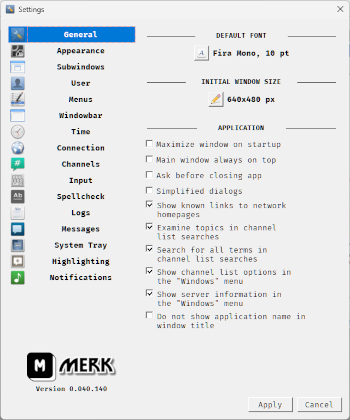
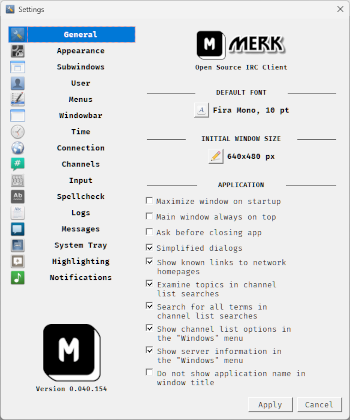
Latest build

Changed region(s): [[0.4, 0.0619, 0.8286, 0.9286], [0.0571, 0.7738, 0.3429, 0.9286]]

diff --git a/README.html b/README.html
@@ -1,4 +1,4 @@
-<h1>MERK 0.040.153</h1>
+<h1>MERK 0.040.154</h1>
 
 <p><a href="https://github.com/nutjob-laboratories/merk">Official source code repository</a></p>
 <h1 id="table-of-contents">Table of contents</h1>
@@ -14,7 +14,7 @@
 <li><a href="#does-merk-need-any-help">Does MERK need any help?</a></li>
 </ul>
 <h1 id="summary">Summary</h1>
-<p><strong>MERK</strong> is a graphical <a href="https://www.gnu.org/licenses/gpl-3.0.en.html">open source</a> <a href="https://en.wikipedia.org/wiki/Internet_Relay_Chat">Internet relay chat</a> client. The current development version is <strong>0.040.153</strong>. It uses a <a href="https://en.wikipedia.org/wiki/Multiple-document_interface">multiple-document interface</a>, much like the popular Windows IRC client <a href="https://www.mirc.com/">mIRC</a>.  <strong>MERK</strong> is written in Python 3, using the <a href="https://pypi.org/project/PyQt5/">PyQt5</a> and <a href="https://twistedmatrix.com/trac/">Twisted</a> libraries, and runs on both Windows and Linux. <strong>MERK</strong> is updated frequently with new features and bugfixes.</p>
+<p><strong>MERK</strong> is a graphical <a href="https://www.gnu.org/licenses/gpl-3.0.en.html">open source</a> <a href="https://en.wikipedia.org/wiki/Internet_Relay_Chat">Internet relay chat</a> client. The current development version is <strong>0.040.154</strong>. It uses a <a href="https://en.wikipedia.org/wiki/Multiple-document_interface">multiple-document interface</a>, much like the popular Windows IRC client <a href="https://www.mirc.com/">mIRC</a>.  <strong>MERK</strong> is written in Python 3, using the <a href="https://pypi.org/project/PyQt5/">PyQt5</a> and <a href="https://twistedmatrix.com/trac/">Twisted</a> libraries, and runs on both Windows and Linux. <strong>MERK</strong> is updated frequently with new features and bugfixes.</p>
 <p><strong>MERK</strong> is still in development, but it works, and can be used for most IRC activities.</p>
 <p>Join me on the official <strong>MERK</strong> IRC channel, <strong>#merk</strong> on the Libera Chat network! Connect to  Libera in the client as one of the built-in server suggestions, or at <strong>irc.libera.chat</strong>, port <strong>6667</strong> (you can also connect via SSL on port <strong>6697</strong>). Honestly, I work a lot, so I&#39;m almost always idle, but I pop in and chat a few times a day!</p>
 <h1 id="making-merk-portable-on-windows">Making MERK Portable on Windows</h1>

diff --git a/merk/dialog/settings.py b/merk/dialog/settings.py
@@ -842,7 +842,15 @@ class Dialog(QDialog):
 
 		self.noAppNameTitle.setStyleSheet("QCheckBox { text-align: left top; } QCheckBox::indicator { subcontrol-origin: padding; subcontrol-position: left top; }")
 
+		logo = QLabel()
+		pixmap = QPixmap(VERTICAL_SPLASH_LOGO)
+		logo.setPixmap(pixmap)
+		logo.setAlignment(Qt.AlignCenter)
+
 		applicationLayout = QVBoxLayout()
+		applicationLayout.addWidget(logo)
+		applicationLayout.addWidget(QLabel('<center><small><b>Open Source IRC Client</b></smal></center>'))
+		applicationLayout.addWidget(QLabel(' '))
 		applicationLayout.addWidget(widgets.textSeparatorLabel(self,"<b>default font</b>"))
 		applicationLayout.addLayout(fontLayout)
 		applicationLayout.addWidget(QLabel(' '))
@@ -2520,7 +2528,7 @@ class Dialog(QDialog):
 		# Finalize layout
 
 		logo = QLabel()
-		pixmap = QPixmap(VERTICAL_SPLASH_LOGO)
+		pixmap = QPixmap(APPLICATION_ICON)
 		logo.setPixmap(pixmap)
 		logo.setAlignment(Qt.AlignCenter)
 

diff --git a/merk/resources/version.py b/merk/resources/version.py
@@ -1,1 +1,1 @@
-APPLICATION_VERSION = "0.040.153"
+APPLICATION_VERSION = "0.040.154"

diff --git a/README.md b/README.md
@@ -28,14 +28,14 @@ All files are packed in [ZIP archive files](https://en.wikipedia.org/wiki/ZIP_(f
 
 | Type| Platform  | Download  |
 | :----:    | :----:    | :----:    |
-| Zip Archive|  Cross-platform  | [Download MERK 0.040.153 (3.53 MB)](https://www.dropbox.com/scl/fi/t8nhn5mnoagclu43fs1pn/merk-latest.zip?rlkey=ghcc5c3955ihn4fijw717di03&dl=1)  |
-| Zip Archive|  Windows | [Download MERK 0.040.153 (49.55 MB)](https://www.dropbox.com/scl/fi/fnu5uasoo2dzmzwiferhw/merk-windows-latest.zip?rlkey=9fke2qid0gna4n4zt00v0uhhy&dl=1)|
-|   Windows Installer|  Windows | [Download MERK 0.040.153 (36.67 MB)](https://www.dropbox.com/scl/fi/okp7zrjy25p1v3rox00p1/merk_setup.zip?rlkey=ey9f78jqzzp9ldjbqgwikk8uc&dl=1)|
-|   Single Executable|  Windows | [Download MERK 0.040.153 (49.14 MB)](https://www.dropbox.com/scl/fi/0r8uq83lrrurh1zoy7g0z/merk-windows-standalone.zip?rlkey=qgowd8ri1qdftuksb152x293l&dl=1)|
+| Zip Archive|  Cross-platform  | [Download MERK 0.040.154 (3.53 MB)](https://www.dropbox.com/scl/fi/t8nhn5mnoagclu43fs1pn/merk-latest.zip?rlkey=ghcc5c3955ihn4fijw717di03&dl=1)  |
+| Zip Archive|  Windows | [Download MERK 0.040.154 (49.55 MB)](https://www.dropbox.com/scl/fi/fnu5uasoo2dzmzwiferhw/merk-windows-latest.zip?rlkey=9fke2qid0gna4n4zt00v0uhhy&dl=1)|
+|   Windows Installer|  Windows | [Download MERK 0.040.154 (36.67 MB)](https://www.dropbox.com/scl/fi/okp7zrjy25p1v3rox00p1/merk_setup.zip?rlkey=ey9f78jqzzp9ldjbqgwikk8uc&dl=1)|
+|   Single Executable|  Windows | [Download MERK 0.040.154 (49.14 MB)](https://www.dropbox.com/scl/fi/0r8uq83lrrurh1zoy7g0z/merk-windows-standalone.zip?rlkey=qgowd8ri1qdftuksb152x293l&dl=1)|
 
 # Summary
   
-**MERK** is a graphical [open source](https://www.gnu.org/licenses/gpl-3.0.en.html) [Internet relay chat](https://en.wikipedia.org/wiki/Internet_Relay_Chat) client. The current development version is **0.040.153**. It uses a [multiple-document interface](https://en.wikipedia.org/wiki/Multiple-document_interface), much like the popular Windows IRC client [mIRC](https://www.mirc.com/).  **MERK** is written in Python 3, using the [PyQt5](https://pypi.org/project/PyQt5/) and [Twisted](https://twistedmatrix.com/trac/) libraries, and runs on both Windows and Linux. **MERK** is updated frequently with new features and bugfixes.
+**MERK** is a graphical [open source](https://www.gnu.org/licenses/gpl-3.0.en.html) [Internet relay chat](https://en.wikipedia.org/wiki/Internet_Relay_Chat) client. The current development version is **0.040.154**. It uses a [multiple-document interface](https://en.wikipedia.org/wiki/Multiple-document_interface), much like the popular Windows IRC client [mIRC](https://www.mirc.com/).  **MERK** is written in Python 3, using the [PyQt5](https://pypi.org/project/PyQt5/) and [Twisted](https://twistedmatrix.com/trac/) libraries, and runs on both Windows and Linux. **MERK** is updated frequently with new features and bugfixes.
 
 **MERK** is still in development, but it works, and can be used for most IRC activities.
 
@@ -45,18 +45,18 @@ Join me on the official **MERK** IRC channel, **#merk** on the Libera Chat netwo
 
 # Running MERK on Windows
 
-If you're running Windows, you can run **MERK** without having to install Python or its requirements! First, [download the Windows installer of **MERK** 0.040.153](https://www.dropbox.com/scl/fi/okp7zrjy25p1v3rox00p1/merk_setup.zip?rlkey=ey9f78jqzzp9ldjbqgwikk8uc&dl=1). Extract the downloaded zip file and double click on `merk-setup.exe` to install **MERK** to wherever you'd like.
+If you're running Windows, you can run **MERK** without having to install Python or its requirements! First, [download the Windows installer of **MERK** 0.040.154](https://www.dropbox.com/scl/fi/okp7zrjy25p1v3rox00p1/merk_setup.zip?rlkey=ey9f78jqzzp9ldjbqgwikk8uc&dl=1). Extract the downloaded zip file and double click on `merk-setup.exe` to install **MERK** to wherever you'd like.
 
-For a "portable" version of **MERK**, [download the zip file of **MERK** 0.040.153 for Windows](https://www.dropbox.com/scl/fi/fnu5uasoo2dzmzwiferhw/merk-windows-latest.zip?rlkey=9fke2qid0gna4n4zt00v0uhhy&dl=1). Extract the zip archive where ever you want, and double click on `merk.exe` to run **MERK**!
+For a "portable" version of **MERK**, [download the zip file of **MERK** 0.040.154 for Windows](https://www.dropbox.com/scl/fi/fnu5uasoo2dzmzwiferhw/merk-windows-latest.zip?rlkey=9fke2qid0gna4n4zt00v0uhhy&dl=1). Extract the zip archive where ever you want, and double click on `merk.exe` to run **MERK**!
 
-For an even easier "install", [download the "standalone" executable of **MERK** 0.040.153](https://www.dropbox.com/scl/fi/0r8uq83lrrurh1zoy7g0z/merk-windows-standalone.zip?rlkey=qgowd8ri1qdftuksb152x293l&dl=1) to wherever you want, extract the zipped executable, and double click it to run **MERK**!
+For an even easier "install", [download the "standalone" executable of **MERK** 0.040.154](https://www.dropbox.com/scl/fi/0r8uq83lrrurh1zoy7g0z/merk-windows-standalone.zip?rlkey=qgowd8ri1qdftuksb152x293l&dl=1) to wherever you want, extract the zipped executable, and double click it to run **MERK**!
 
 The Windows version of **MERK** is being built with [PyInstaller](https://www.pyinstaller.org/).
 
 A note: all command-line arguments, as documented below, work on the standalone version of **MERK**.
 
 # Making MERK Portable on Windows
-If you want to run **MERK** from a USB stick, and save all configuration and user data to the USB stick (or wherever you're running **MERK** from), it's really easy. First, [download the zip file of **MERK** 0.040.153 for Windows](https://www.dropbox.com/scl/fi/fnu5uasoo2dzmzwiferhw/merk-windows-latest.zip?rlkey=9fke2qid0gna4n4zt00v0uhhy&dl=1), and extract it to your USB stick. Then, open [Notepad](https://en.wikipedia.org/wiki/Windows_Notepad), and enter this into a new document:
+If you want to run **MERK** from a USB stick, and save all configuration and user data to the USB stick (or wherever you're running **MERK** from), it's really easy. First, [download the zip file of **MERK** 0.040.154 for Windows](https://www.dropbox.com/scl/fi/fnu5uasoo2dzmzwiferhw/merk-windows-latest.zip?rlkey=9fke2qid0gna4n4zt00v0uhhy&dl=1), and extract it to your USB stick. Then, open [Notepad](https://en.wikipedia.org/wiki/Windows_Notepad), and enter this into a new document:
 
 ```merk.exe --config-local```
 
